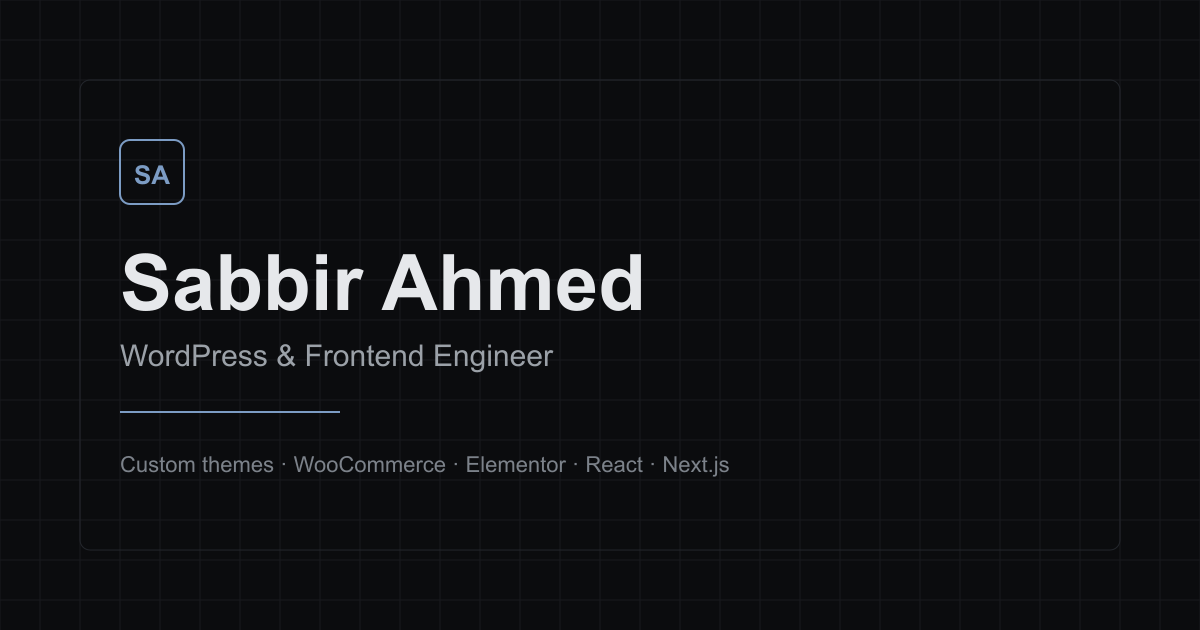
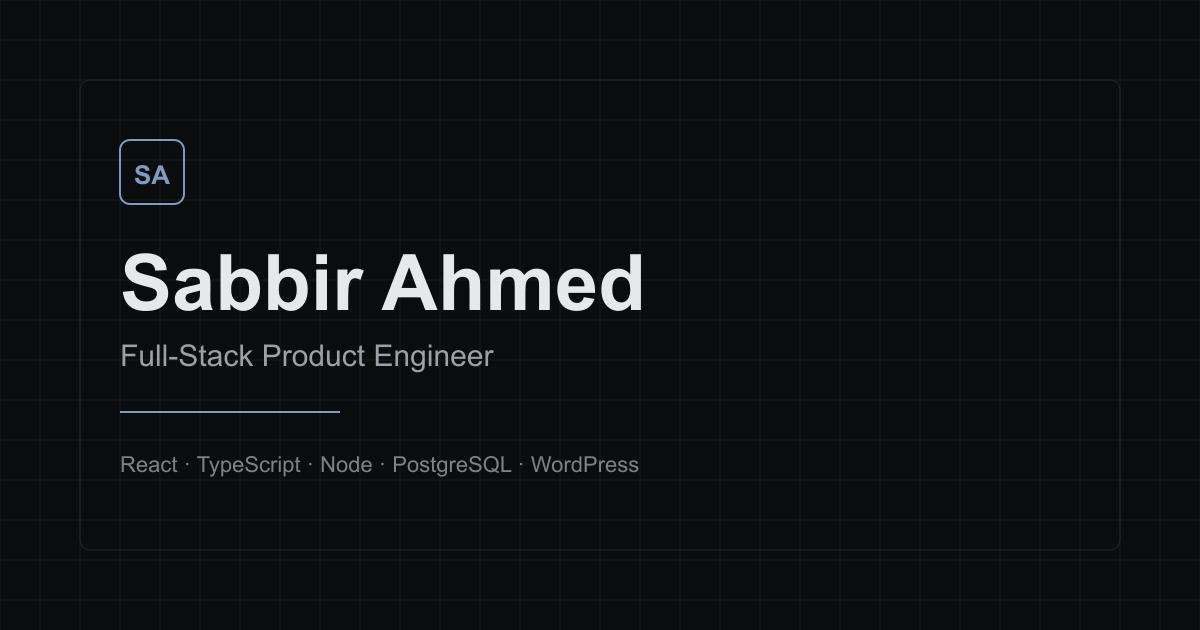
content: retitle the site as Full-Stack Product Engineer
Browser title, OG title and Twitter title all read "WordPress Developer &
Web Developer", which contradicted the repositioning already applied to the
hero, experience and skills.

Changed together so nothing drifts:
- title / og:title / twitter:title -> "Sabbir Ahmed — Full-Stack Product Engineer"
- descriptions: the meta description still described WordPress themes and
  Elementor widgets; now matches the hero tagline
- keywords led with "WordPress Developer, Web Developer"; now leads with
  Full-Stack Engineer, React, TypeScript, Node, PostgreSQL, keeping the
  WordPress terms further down since they still bring real traffic
- OG card subtitle regenerated from "WordPress & Frontend Engineer" to
  "Full-Stack Product Engineer", tech line updated to match
- personal-data `designation` updated for the same reason, though it is
  currently unrendered

lint 0, contrast 17/17, build clean.

Claude-Session: https://claude.ai/code/session_01XL29umECERzLf5s7HE95aG

Changed region(s): [[0.0925, 0.5429, 0.4625, 0.6032], [0.0925, 0.7238, 0.6167, 0.754]]

diff --git a/app/layout.js b/app/layout.js
@@ -24,17 +24,18 @@ const siteUrl = process.env.NEXT_PUBLIC_SITE_URL
 
 export const metadata = {
   metadataBase: new URL(siteUrl),
-  title: "Sabbir Ahmed - WordPress Developer & Web Developer",
+  title: "Sabbir Ahmed — Full-Stack Product Engineer",
   description:
-    "Portfolio of Sabbir Ahmed - WordPress Developer and Web Developer specializing in custom themes, plugins, Elementor widgets, WooCommerce solutions, and frontend animations.",
-  keywords: ["WordPress Developer", "Web Developer", "WooCommerce", "Elementor", "PHP", "React", "Next.js", "Sabbir Ahmed"],
+    "Full-stack product engineer. React and TypeScript on the surface, Node, Postgres and real security boundaries underneath, with ten years of WordPress behind it.",
+  keywords: ["Full-Stack Engineer", "React", "TypeScript", "Node.js", "PostgreSQL", "Supabase",
+    "Next.js", "WordPress Developer", "WooCommerce", "Elementor", "PHP", "Sabbir Ahmed"],
   authors: [{ name: "Sabbir Ahmed", url: "https://www.linkedin.com/in/sabbir-ahmed-pix" }],
   openGraph: {
     type: "website",
     locale: "en_US",
     url: siteUrl,
-    title: "Sabbir Ahmed - WordPress Developer & Web Developer",
-    description: "10+ years building custom WordPress themes, WooCommerce stores, Elementor widgets, and full-stack web apps.",
+    title: "Sabbir Ahmed — Full-Stack Product Engineer",
+    description: "Full-stack product engineer. React and TypeScript on the surface, Node, Postgres and real security boundaries underneath, with ten years of WordPress behind it.",
     siteName: "Sabbir Ahmed Portfolio",
     // No `images` here on purpose: app/opengraph-image.png is a Next file
     // convention and overrides this key, so declaring it twice only lets the
@@ -42,8 +43,8 @@ export const metadata = {
   },
   twitter: {
     card: "summary_large_image",
-    title: "Sabbir Ahmed - WordPress Developer & Web Developer",
-    description: "10+ years building custom WordPress themes, WooCommerce stores, Elementor widgets, and full-stack web apps.",
+    title: "Sabbir Ahmed — Full-Stack Product Engineer",
+    description: "Full-stack product engineer. React and TypeScript on the surface, Node, Postgres and real security boundaries underneath, with ten years of WordPress behind it.",
     creator: "@SabbirPixiefy",
   },
 };

diff --git a/utils/data/personal-data.js b/utils/data/personal-data.js
@@ -1,7 +1,7 @@
 export const personalData = {
   name: "SABBIR AHMED",
   profile: '/profile.png',
-  designation: "WordPress Developer & Web Developer",
+  designation: "Full-Stack Product Engineer",
   tagline: "I build web products end to end — React and TypeScript on the surface, Node, Postgres and real security boundaries underneath. Ten years of WordPress sits behind all of it.",
   // Rendered as separate paragraphs in the About section.
   description: [
